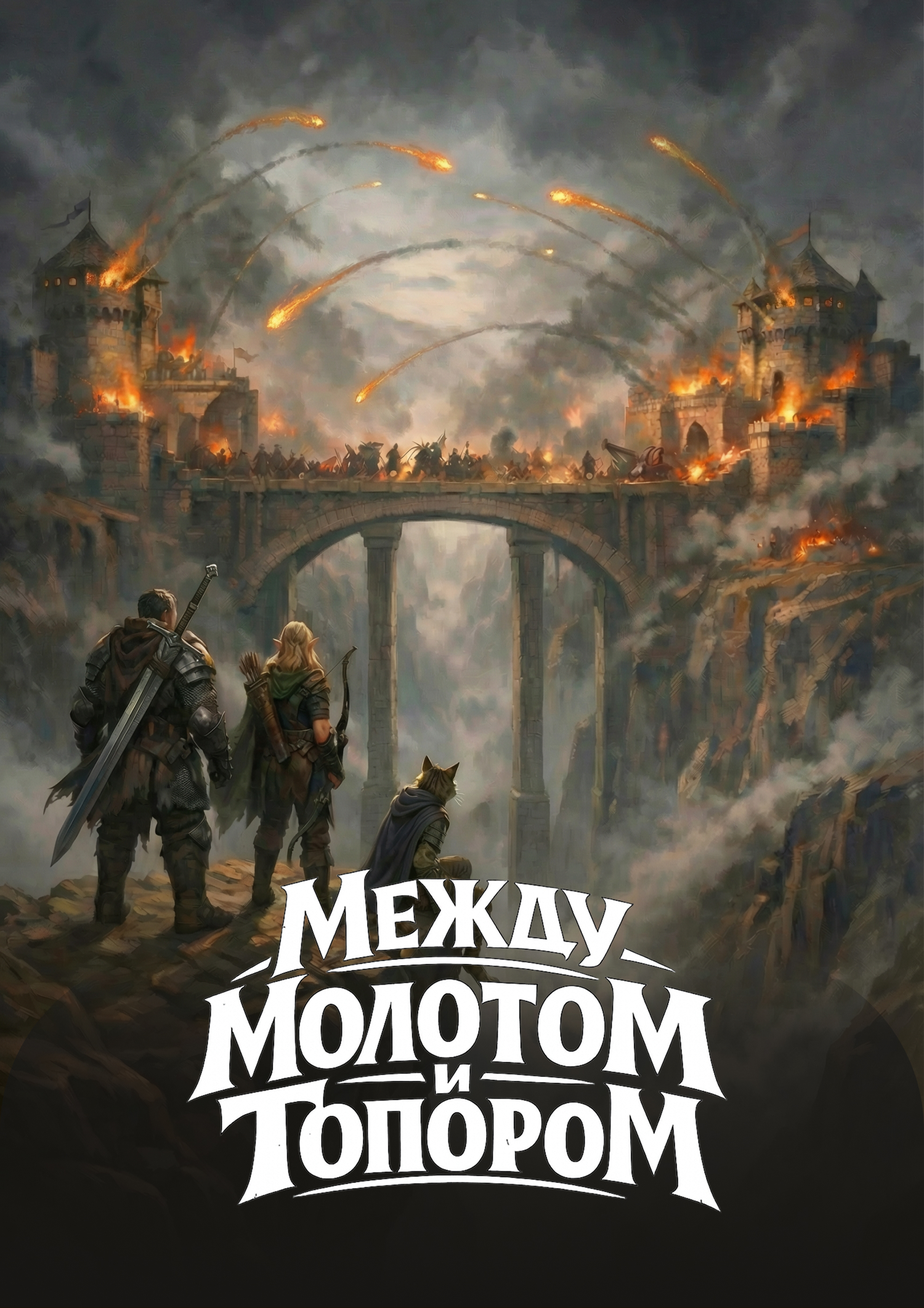
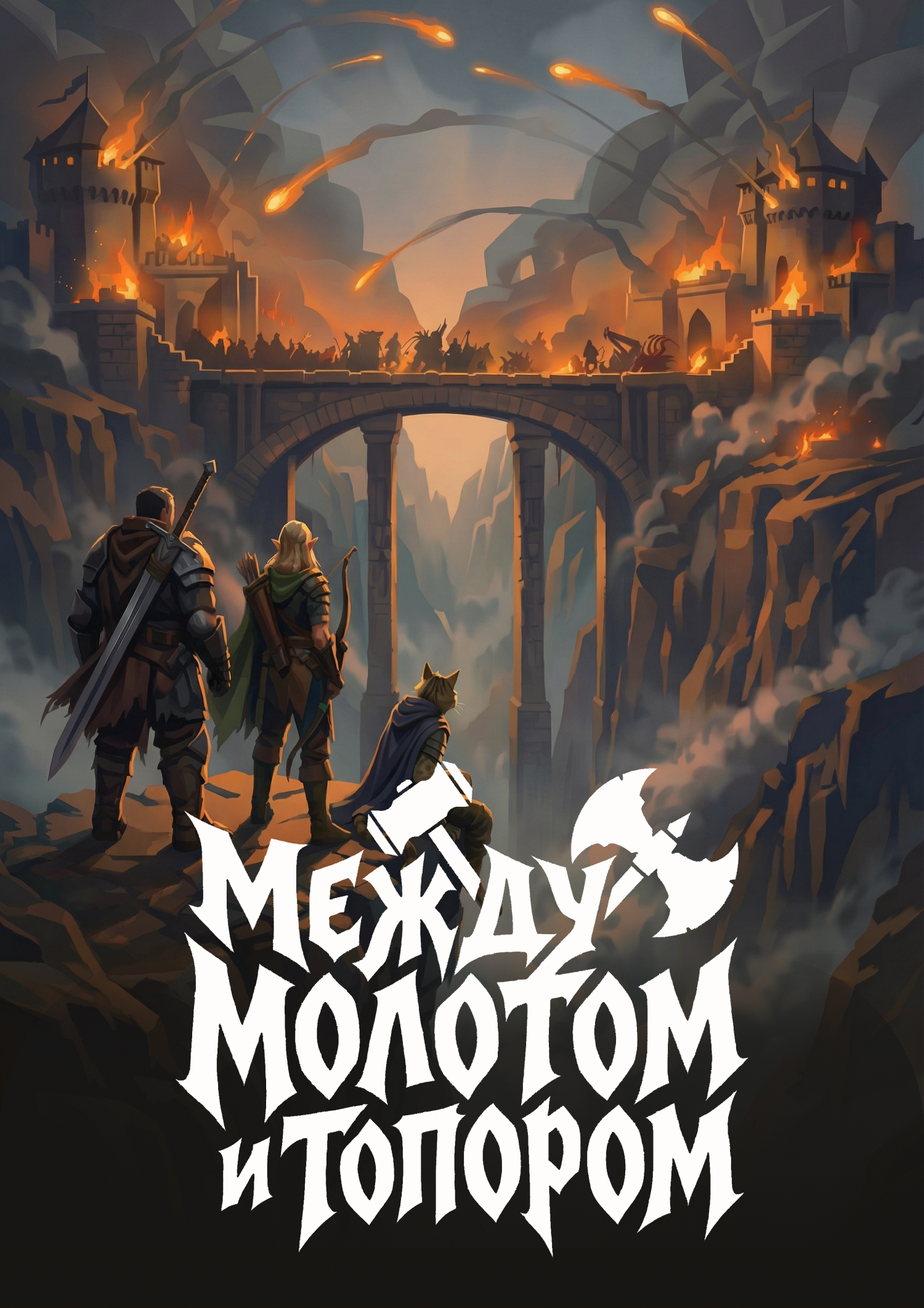
Добавлены игры

diff --git a/src/data/adventures.ts b/src/data/adventures.ts
@@ -116,4 +116,20 @@ export const adventuresDB: Record<string, Adventure> = {
 
 В этом танце лицемерия каждое слово будет иметь значение. Крысиные сплетни и подколы со стороны местных стерв напрямую повлияют на твою репутацию и шансы на то, что именно тебя выберет обеспеченный Принц.`,
   },
+  'signal-sos': {
+    title: 'Сигнал SOS',
+    imageUrl: '/images/common/adventure-covers/signal-sos-cover.jpg',
+    coverImageUrl: '/images/common/adventure-mini-covers/signal-sos-mini-cover.jpg',
+    description: `Ты — выживший пассажир рейса «Утёнок-757». Этот корабль — последний, из уцелевших после спешной эвакуации с засекреченного исследовательского острова посреди Обского океана. На борту собрались перепуганные работники и случайные спасённые, но радость спасения длилась недолго.
+
+Среди вас затаились двое Амогусиан. Мерзкие существа, что инфицируют разум, развращают душу и превращают своих носителей в монстров. В обычной ситуации магические системы корабля просто затопили бы отсек с подозреваемыми, не разбираясь. Но вы — последние, выжившие с острова. Капитан пошёл на сделку: в назначенный час вы будете сами решать, кто отправится в магический транс. Голосование не прекратится, пока среди пассажиров не останется ни одного заражённого Амогусом.`,
+  },
+  'delusional-robbery': {
+    title: 'Бредовое ограбление',
+    imageUrl: '/images/common/adventure-covers/delusional-robbery-cover.jpg',
+    coverImageUrl: '/images/common/adventure-mini-covers/delusional-robbery-mini-cover.jpg',
+    description: `Во время недавней экспедиции археологи Академполиса обнаружили у Бредовой реки огромный таинственный камень. Представители Геологического музея выкупили находку прямо с места раскопок, не дав ученым даже толком ее изучить.
+
+На самом деле артефакт таит в себе смертельную угрозу, но об этом пока не знает никто… кроме одной опальной исследовательницы. Героям предстоит проникнуть в музей и выкрасть камень, а как именно они это сделают — решать только им.`,
+  },
 };

diff --git a/src/app/PageContent.tsx b/src/app/PageContent.tsx
@@ -12,11 +12,37 @@ import { AdventureModal } from './components/AdventureModal';
 
 const cardsData = [
   {
+    adventureId: "delusional-robbery",
+    masterId: "alexey-kakaulin",
+    dateTime: "18:00, 3 марта",
+    price: "1000₽",
+    location: "Drink&RE",
+    startLevel: "1 уровень",
+    playerCount: "От 3 до 6 игроков",
+    duration: "От 3 до 5 часов",
+    telegramLobbyUrl: "https://t.me/heist_drink_re",
+    lobbyButtonText: "Зайти в лобби",
+    isDisabled: false,
+  },
+  {
+    adventureId: "signal-sos",
+    masterId: "ivan-komarik",
+    dateTime: "18:00, 3 марта",
+    price: "1000₽",
+    location: "Melomel",
+    startLevel: "1 уровень",
+    playerCount: "От 4 до 6 игроков",
+    duration: "От 3 до 5 часов",
+    telegramLobbyUrl: "https://t.me/dnd_melomel",
+    lobbyButtonText: "Зайти в лобби",
+    isDisabled: false,
+  },
+  {
     adventureId: "between-the-hammer-and-the-axe",
     masterId: "roman-saltovsky",
-    dateTime: "БЕЗ ДАТЫ",
+    dateTime: "18:00, 4 марта",
     price: "1000₽",
-    location: "—",
+    location: "Barbara Bus",
     startLevel: "1 уровень",
     playerCount: "От 4 до 6 игроков",
     duration: "От 4 до 5 часов",
